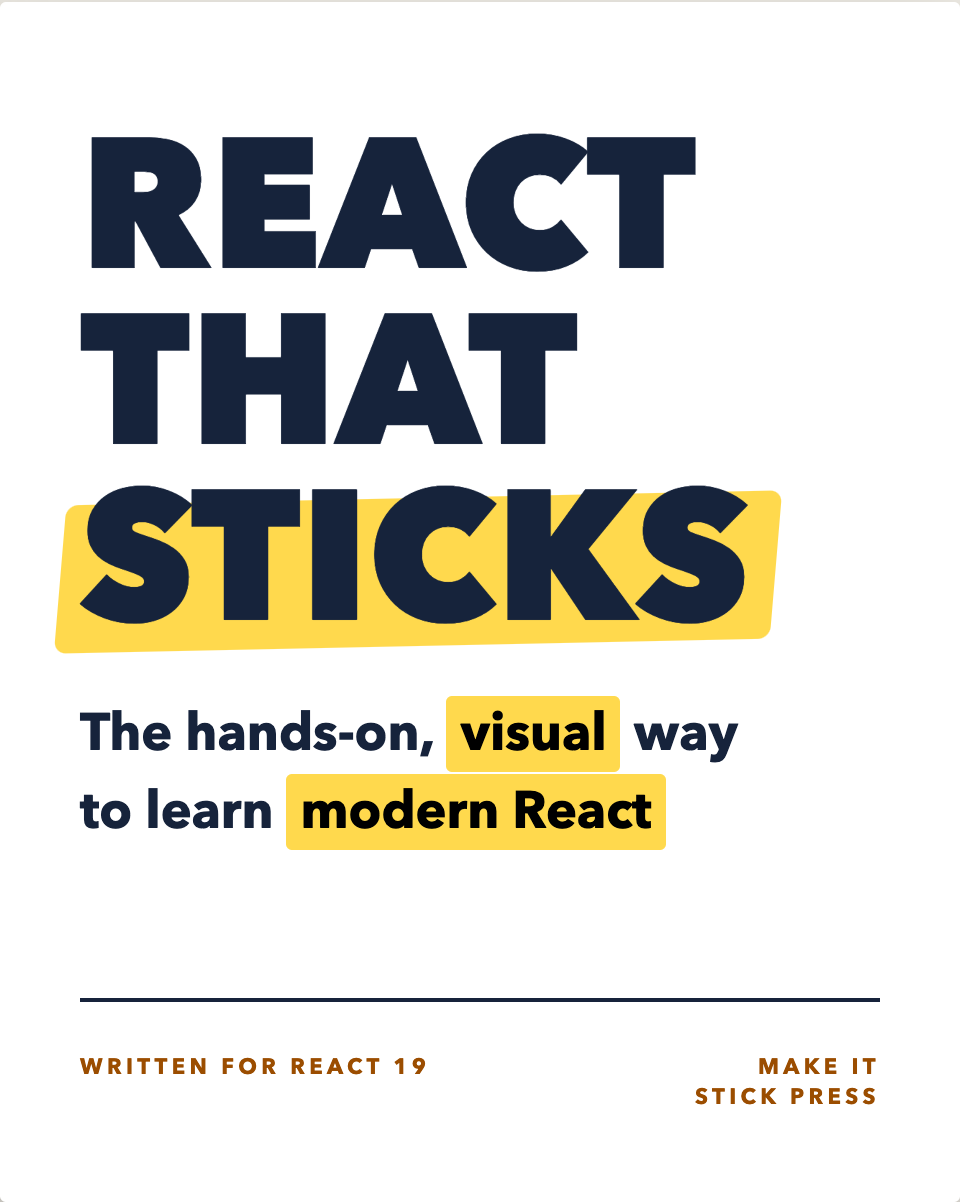
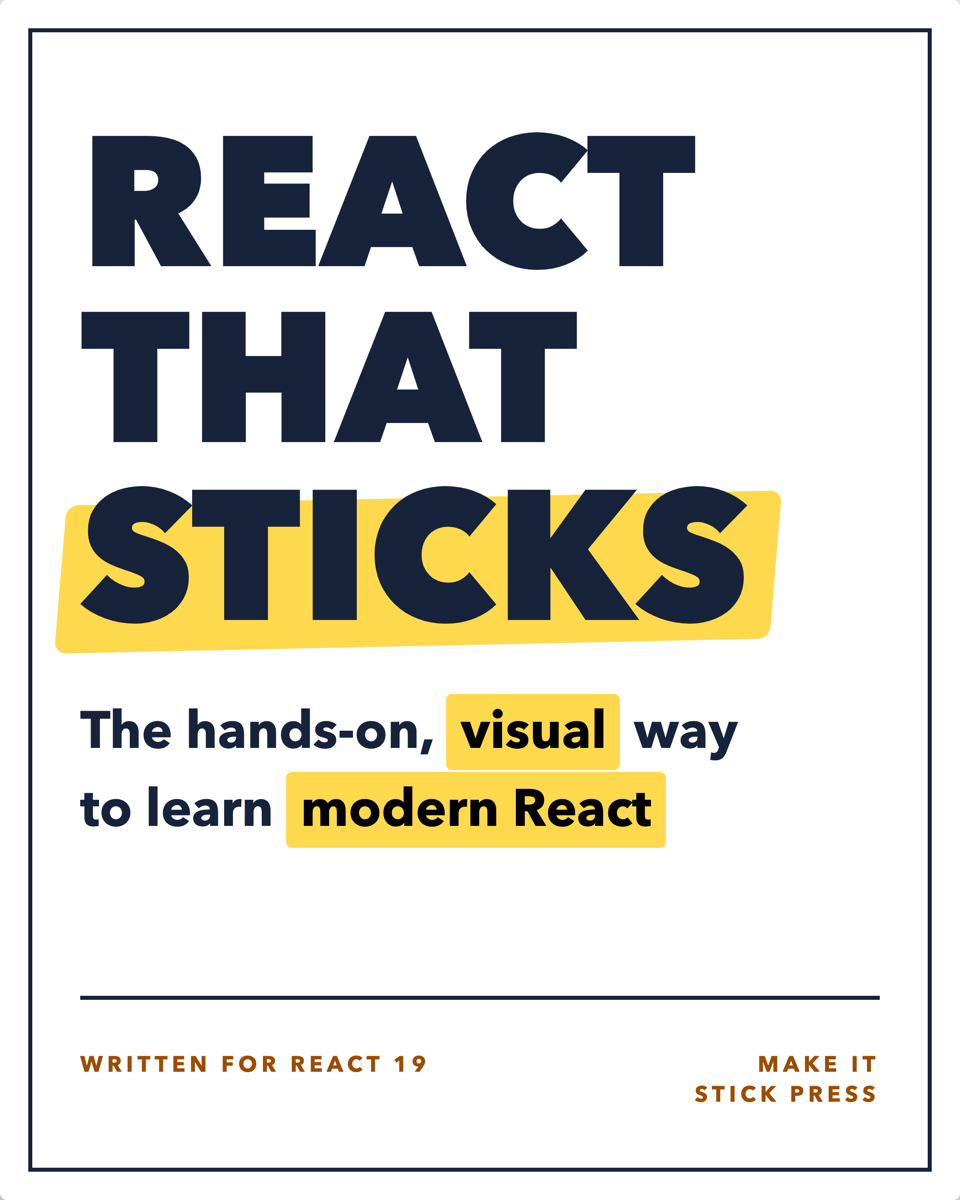
Update React That Sticks cover keyline

diff --git a/index.html b/index.html
@@ -13,7 +13,7 @@
   hr { border: 0; border-top: 1px solid #ddd6c8; margin: 0; }
   .cat-label { padding: 2.6rem 0 1.6rem; font-size: 0.75rem; font-weight: 700; letter-spacing: 0.2em; text-transform: uppercase; color: #7b7568; text-align: center; }
   .book { display: grid; grid-template-columns: 8.4rem 1fr; gap: 2rem; padding: 0 0 2.8rem; align-items: start; }
-  .cover-img { width: 100%; height: auto; display: block; border: 1.5px solid #1d222b; box-shadow: 6px 6px 16px rgba(29,34,43,0.12); }
+  .cover-img { width: 100%; height: auto; display: block; box-shadow: 6px 6px 16px rgba(29,34,43,0.12); }
   .book h2 { font-size: 1.65rem; font-weight: 700; letter-spacing: -0.01em; }
   .book .sub { margin: 0.2rem 0 0.9rem; color: #7b7568; font-size: 0.95rem; }
   .book .desc { color: #3a4150; margin-bottom: 1.2rem; }
@@ -36,7 +36,7 @@
 <hr>
 <p class="cat-label sans wrap">Catalogue</p>
 <section class="book wrap">
-  <img class="cover-img" src="assets/react-that-sticks-cover.png" alt="React That Sticks book cover" width="560" height="701">
+  <img class="cover-img" src="assets/react-that-sticks-cover.png" alt="React That Sticks book cover" width="960" height="1200">
   <div>
     <h2>React That Sticks</h2>
     <p class="sub sans">8×10 full-color paperback · 268 pages · first edition 2026</p>